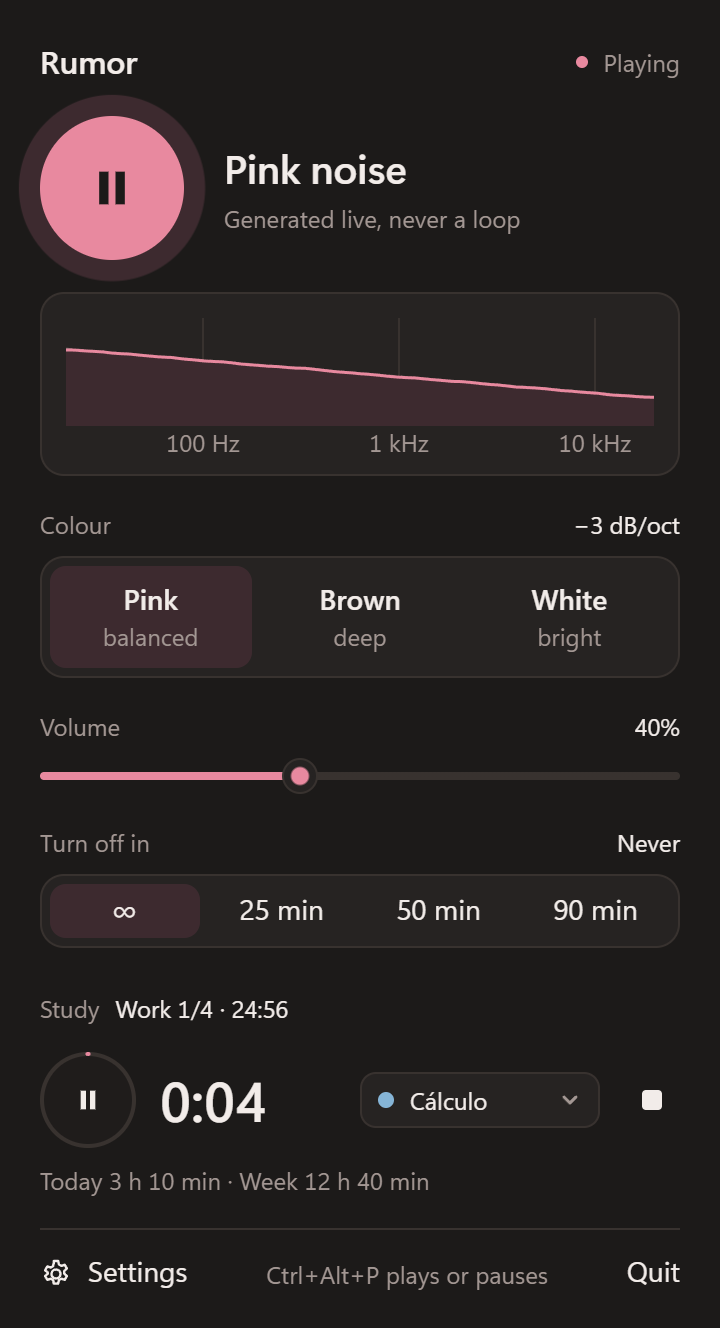
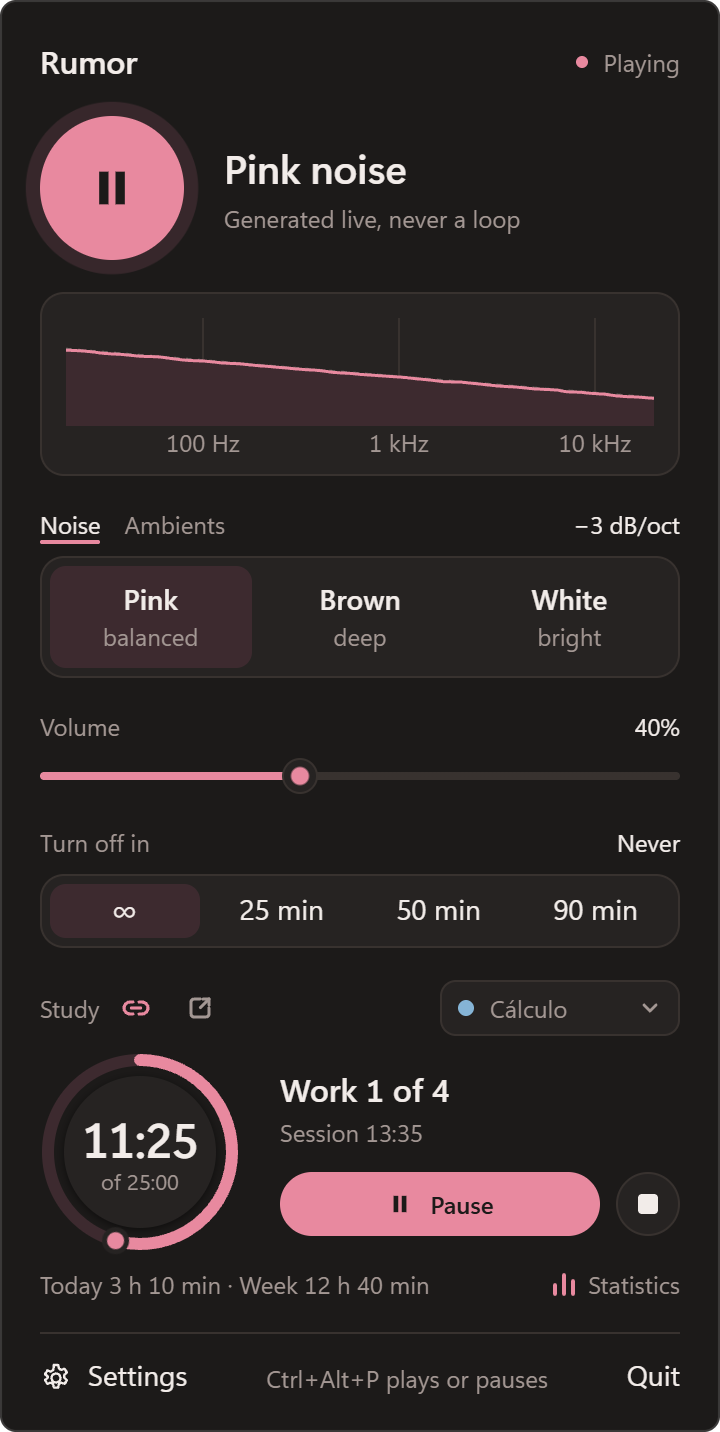
docs: new README screenshots and demo GIF
- Six screenshots from the mock at 2x with Windows 11 window corners:
  noise, ambients, a Pomodoro session, Statistics, Settings and the
  mini clock, in light and dark.
- The demo GIF shows play, switching to brown and a rain ambient, with a
  drawn pointer so each step reads.
- Screenshots in a captioned grid; the browser demo link points at
  marioyuste.com/proyectos/rumor/, like web/README.md.

diff --git a/README.md b/README.md
@@ -18,7 +18,7 @@ Real rain recordings that never loop. An optional study timer. No account, no ad
 </p>
 
 <p align="center">
-  <a href="https://github.com/YusteMa/rumor/releases"><b>Download for Windows</b></a> · <a href="https://rumor.marioyuste.com"><b>Try it in your browser</b></a>
+  <a href="https://github.com/YusteMa/rumor/releases"><b>Download for Windows</b></a> · <a href="https://marioyuste.com/proyectos/rumor/"><b>Try it in your browser</b></a>
 </p>
 
 ## Why
@@ -55,18 +55,40 @@ Rumor **computes the noise sample by sample** on your PC, the way the iPhone's B
 
 ## Screenshots
 
+<table>
+  <tr>
+    <td align="center" valign="top" width="33%">
+      <img src="docs/screenshots/panel-noise.png" width="260" alt="The panel in light mode playing pink noise, with the spectrum, the volume and a 25-minute timer running"><br>
+      <sub><b>Noise</b> with a sleep timer</sub>
+    </td>
+    <td align="center" valign="top" width="33%">
+      <img src="docs/screenshots/panel-ambients.png" width="260" alt="The panel in dark mode on the Ambients tab, playing the Rain recording; Downpour is still to download"><br>
+      <sub><b>Ambients</b>, real rain that never loops</sub>
+    </td>
+    <td align="center" valign="top" width="33%">
+      <img src="docs/screenshots/panel-study.png" width="260" alt="The panel in dark mode with a Pomodoro work phase running on the study dial, tagged Cálculo"><br>
+      <sub><b>Study mode</b> with a Pomodoro</sub>
+    </td>
+  </tr>
+</table>
+
 <p align="center">
-  <img src="docs/screenshots/panel-noise.png" width="270" alt="The panel playing pink noise, with the spectrum, volume and timer">
-  <img src="docs/screenshots/panel-ambients.png" width="270" alt="The Ambients tab with the four rain recordings">
-  <img src="docs/screenshots/panel-study.png" width="270" alt="The panel with a Pomodoro session running on the study dial">
+  <img src="docs/screenshots/statistics.png" width="720" alt="The Statistics window: this week's total against a 15-hour goal, an 8-week trend, hours per day by subject, time by subject and the hours you study most"><br>
+  <sub><b>Statistics</b>: weekly goal, trend, subjects and your best hours</sub>
 </p>
-<p align="center">
-  <img src="docs/screenshots/statistics.png" width="560" alt="The Statistics window: this week's hours per day, the weekly goal ring and time by subject">
-</p>
-<p align="center">
-  <img src="docs/screenshots/settings.png" width="420" alt="The Settings window">
-  <img src="docs/screenshots/mini-clock.png" width="240" alt="The floating mini clock over another window">
-</p>
+
+<table>
+  <tr>
+    <td align="center" valign="middle" width="62%">
+      <img src="docs/screenshots/settings.png" width="460" alt="The Settings window in dark mode, on General: what to do when headphones disconnect or the PC locks, alerts, the ear break, mono and start with Windows"><br>
+      <sub><b>Settings</b></sub>
+    </td>
+    <td align="center" valign="middle" width="38%">
+      <img src="docs/screenshots/mini-clock.png" width="260" alt="The floating mini clock: a pill with the Pomodoro ring as its pause button and 11:26 left in work phase 1 of 4"><br>
+      <sub><b>Mini clock</b>, always on top</sub>
+    </td>
+  </tr>
+</table>
 
 ## Install
 
